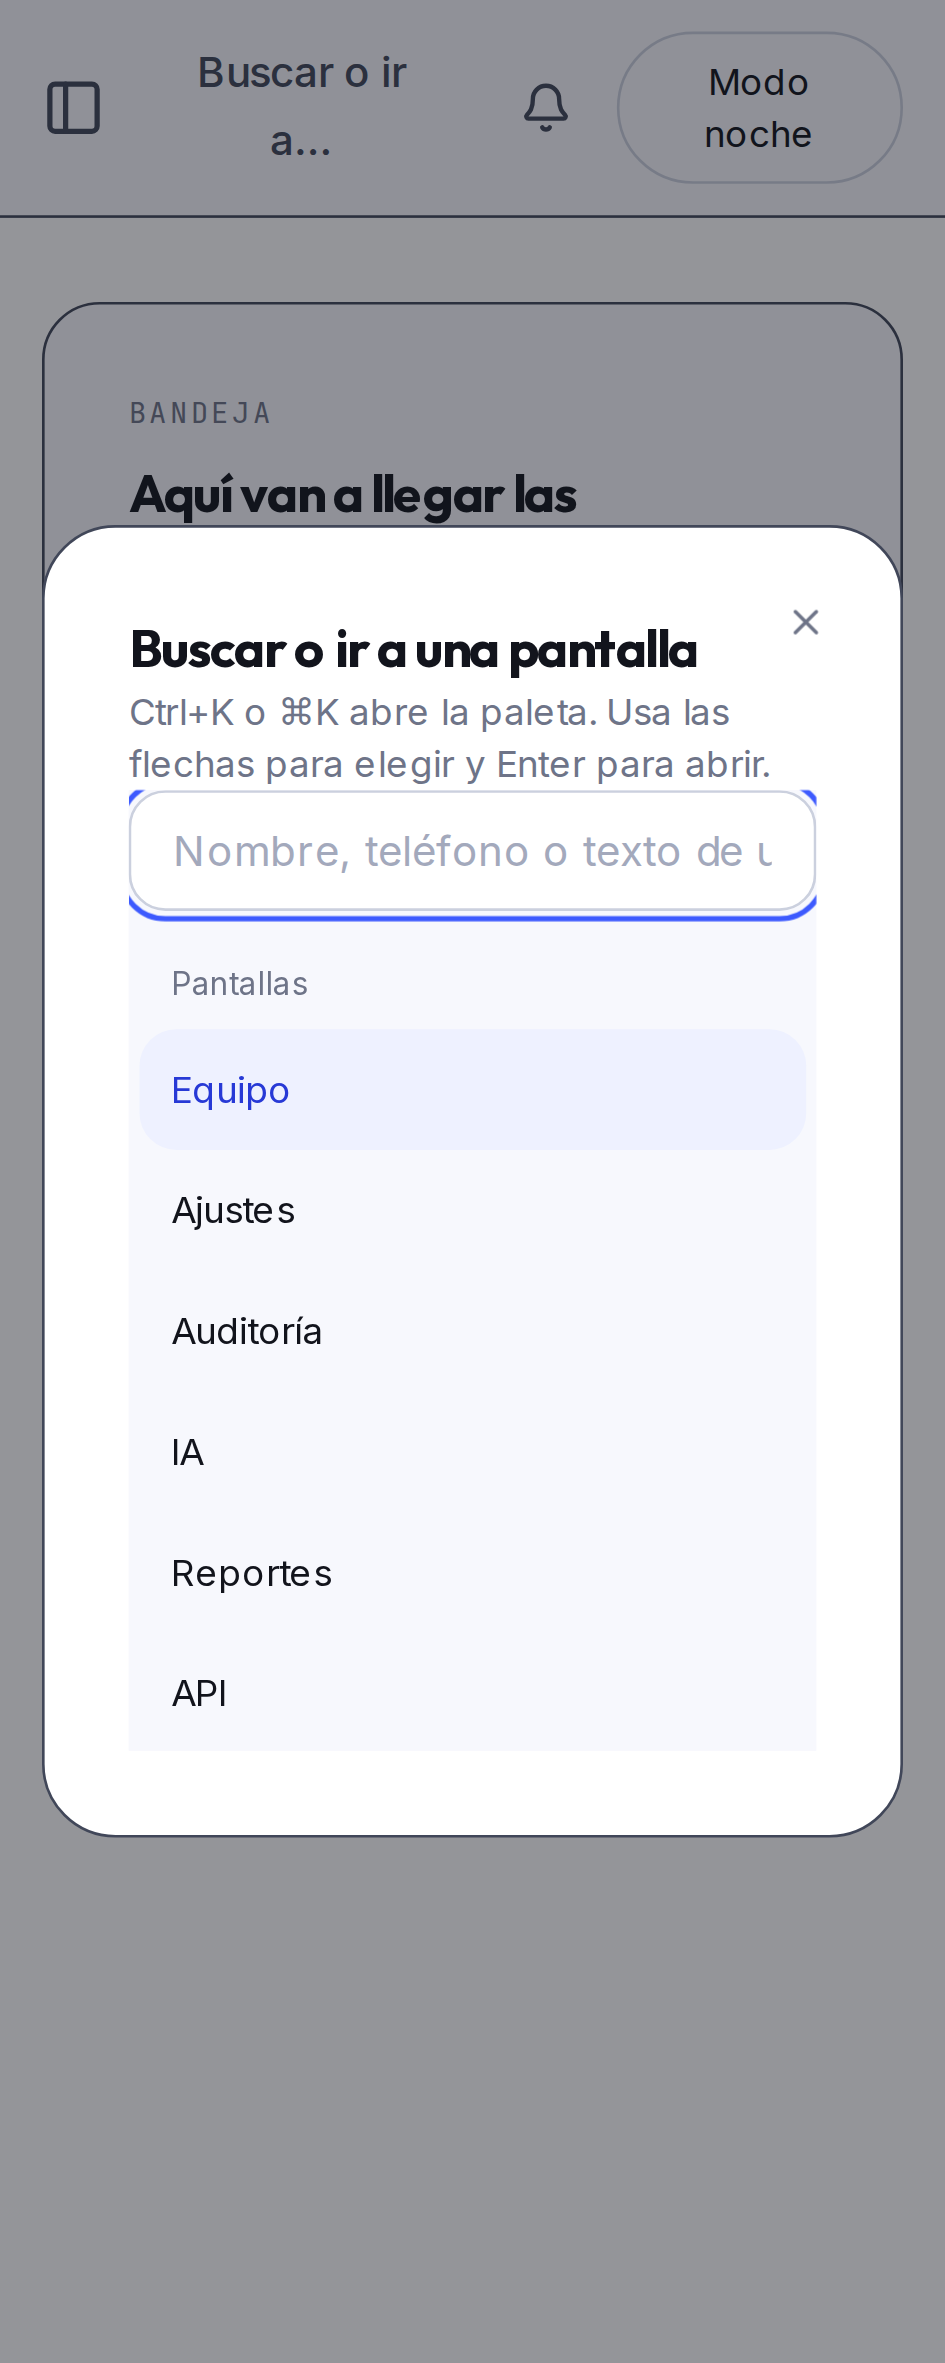
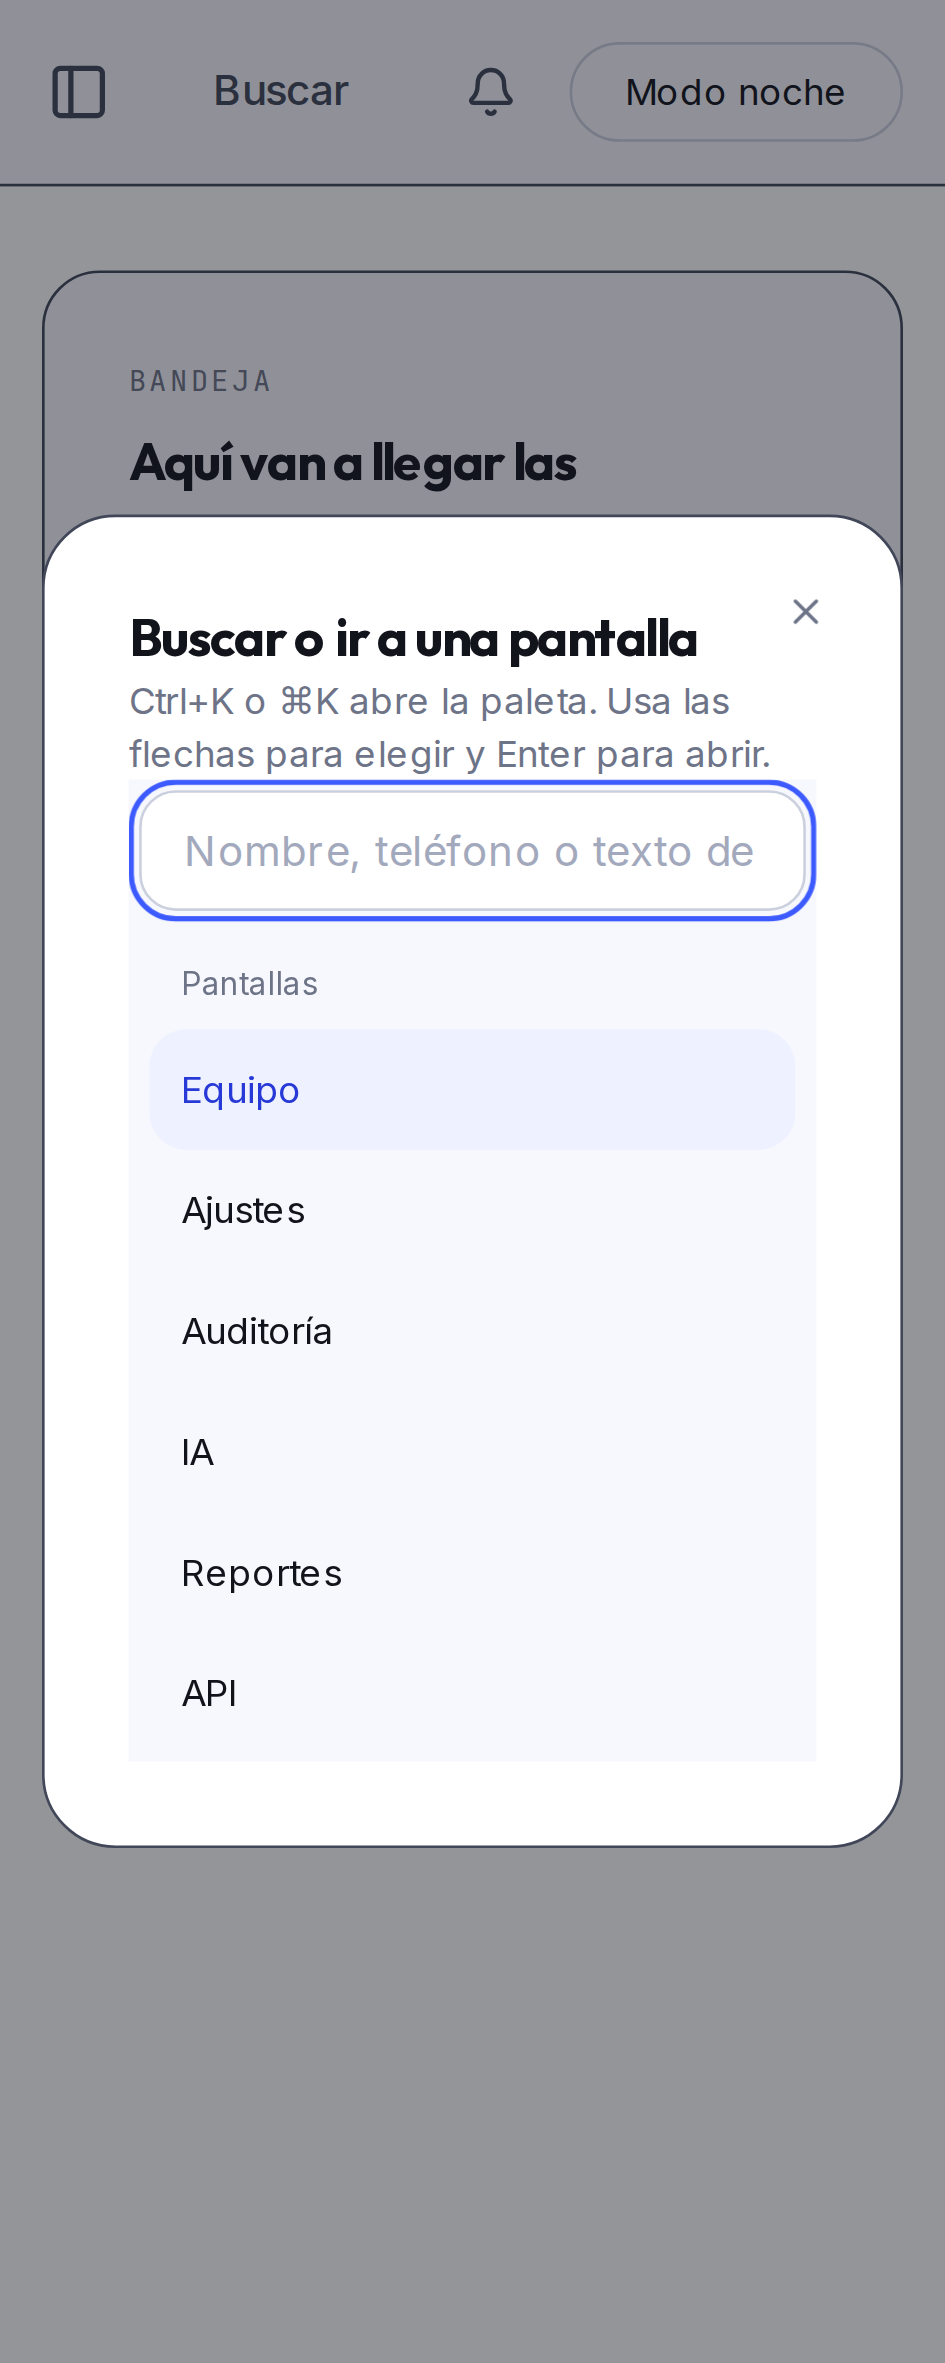
fix(ui): preserve palette focus outline and compact mobile trigger

diff --git a/apps/web/e2e/teclado.spec.ts b/apps/web/e2e/teclado.spec.ts
@@ -77,14 +77,16 @@ for (const modo of ['dia', 'noche']) {
   test(`paleta a 360 px en ${modo}, sin sombras y con movimiento reducido`, async ({ page }) => {
     await page.setViewportSize({ width: 360, height: 900 });
     await page.emulateMedia({ reducedMotion: 'reduce' });
+    await page.addInitScript((modo) => localStorage.setItem('pulso-mode', modo), modo);
     await page.goto('/');
     await expect(page.getByRole('button', { name: 'Buscar o ir a…' })).toBeVisible();
-  await page.keyboard.press('Control+k');
+    await page.keyboard.press('Control+k');
     const dialog = page.getByRole('dialog');
     const input = page.getByRole('combobox', { name: 'Buscar pantallas, contactos o conversaciones' });
     await expect(input).toBeFocused();
     await page.evaluate((modo) => document.documentElement.setAttribute('data-mode', modo), modo);
     expect(await input.evaluate((el) => getComputedStyle(el).outlineWidth)).toBe('2px');
+    expect(await input.evaluate((el) => el.getBoundingClientRect().left - el.closest('[cmdk-root]')!.getBoundingClientRect().left)).toBeGreaterThanOrEqual(4);
     expect(await dialog.evaluate((el) => parseFloat(getComputedStyle(el).animationDuration))).toBeLessThanOrEqual(0.001);
     expect(await dialog.evaluate((el) => getComputedStyle(el).boxShadow)).toBe('none');
     expect(await page.evaluate(() => document.documentElement.scrollWidth <= innerWidth)).toBe(true);

diff --git a/apps/web/components/paleta-comandos.tsx b/apps/web/components/paleta-comandos.tsx
@@ -55,7 +55,7 @@ export function PaletaComandos({ nav }: { nav: Array<{ path: string; label: stri
   const go = (path: string) => { setOpen(false); window.location.assign(path); };
   const normal = (text: string) => text.normalize('NFD').replace(/[\u0300-\u036f]/g, '').toLowerCase();
   return <Dialog open={open} onOpenChange={setOpen}>
-    <DialogTrigger asChild><Button variant="fantasma" aria-keyshortcuts="Control+k Meta+k">Buscar o ir a…</Button></DialogTrigger>
+    <DialogTrigger asChild><Button variant="fantasma" aria-label="Buscar o ir a…" aria-keyshortcuts="Control+k Meta+k"><span className="sm:hidden">Buscar</span><span className="hidden sm:inline">Buscar o ir a…</span></Button></DialogTrigger>
     <DialogContent className="pulso-entrada">
       <DialogTitle>Buscar o ir a una pantalla</DialogTitle>
       <DialogDescription>Ctrl+K o ⌘K abre la paleta. Usa las flechas para elegir y Enter para abrir.</DialogDescription>

diff --git a/packages/ui/src/react/ui/command.tsx b/packages/ui/src/react/ui/command.tsx
@@ -6,7 +6,7 @@ import { cn } from './cn';
 
 // Patrón command de shadcn: cmdk aporta teclado/ARIA, Pulso aporta los tokens.
 export const Command = React.forwardRef<React.ElementRef<typeof Primitive>, React.ComponentPropsWithoutRef<typeof Primitive>>(({ className, ...props }, ref) =>
-  <Primitive ref={ref} className={cn('flex min-w-0 flex-col overflow-hidden bg-raised text-ink', className)} {...props} />);
+  <Primitive ref={ref} className={cn('flex min-w-0 flex-col overflow-hidden bg-raised p-1 text-ink', className)} {...props} />);
 Command.displayName = 'Command';
 export const CommandInput = React.forwardRef<React.ElementRef<typeof Primitive.Input>, React.ComponentPropsWithoutRef<typeof Primitive.Input>>(({ className, ...props }, ref) =>
   <Primitive.Input ref={ref} className={cn('h-control w-full rounded-campo border border-line-strong bg-field px-4 text-cuerpo text-ink placeholder:text-faint', className)} {...props} />);
